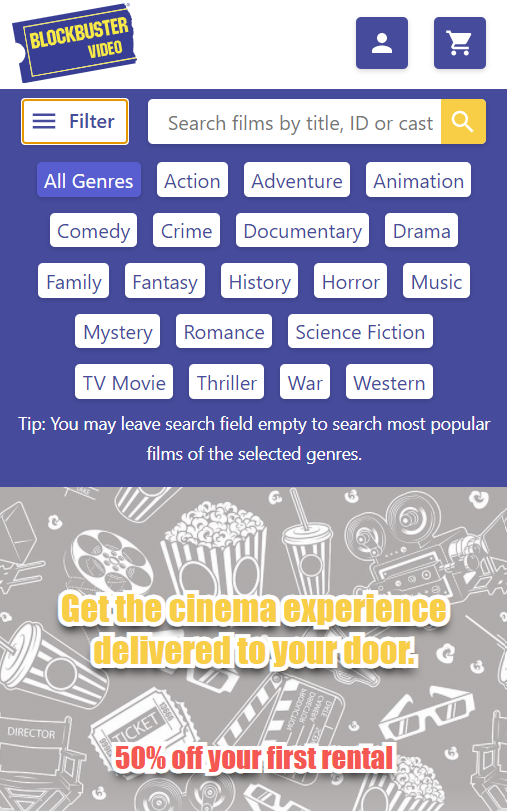
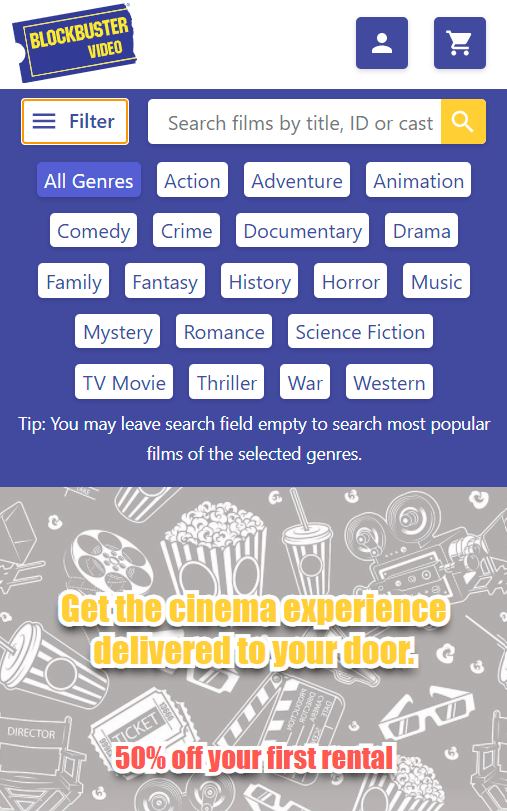
Reducido tamaño de los screenshots.

Changed region(s): [[0.0592, 0.0, 0.2663, 0.0925]]

diff --git a/README.md b/README.md
@@ -62,7 +62,7 @@ The site consists of a single html file (<b>index.html</b>) and stylesheet (<b>s
 
 ## Screenshots
 <p align="center">
-<img src="img/screenshot-home.png" width=800><br>
+<img src="img/screenshot-home.jpg" width=800><br>
 <sub>Screenshot - Home page carousels (PC, Chrome v88)</sub>
 </p>
 <br>
